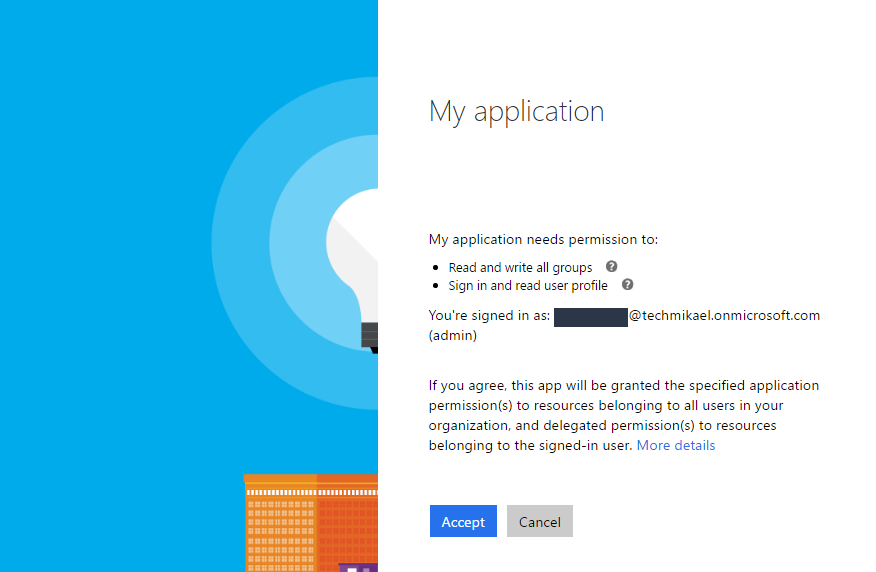
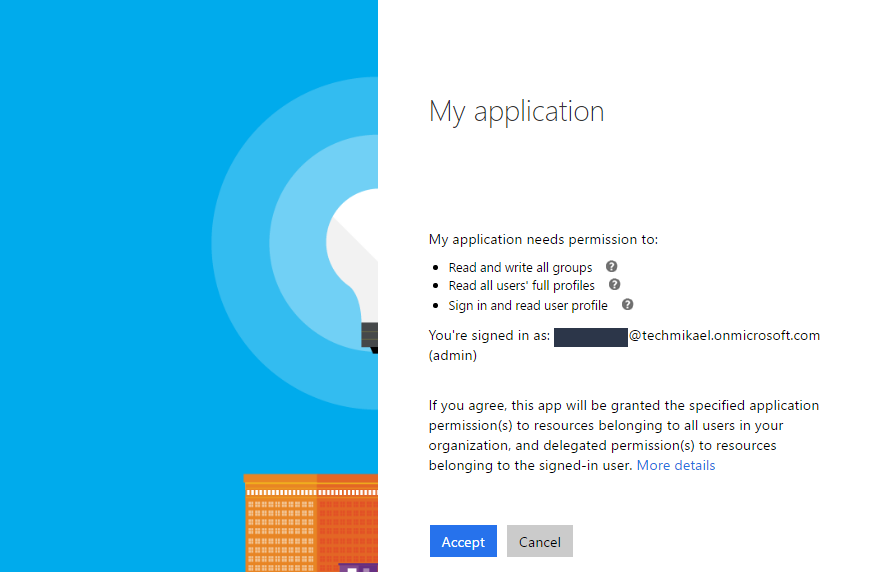
Updated sample to include User.Read.All

Changed region(s): [[0.4932, 0.4755, 0.9555, 0.8322], [0.4932, 0.8619, 0.6781, 0.9808]]

diff --git a/Samples/Graph.ConnectUsingAppPermissions/ReadMe.md b/Samples/Graph.ConnectUsingAppPermissions/ReadMe.md
@@ -30,8 +30,7 @@ Give your application a name and hit *Create application*.
 In the application configuration screen configure the following:
 * Generate a password and make a note of it together with the application id
 * Add *Mobile application* as the platform target as the application does not have a landing page
-* Add the neccessary Application Permission. In this sample app we have added the right to read and
-write to all Office 365 Groups
+* Add the neccessary Application Permission. In this sample app we have added the right to read and write to all Office 365 Groups, as well as the ability to read users which is needed in PnP when adding owners and members.
 
 Once configured save your changes.
 
